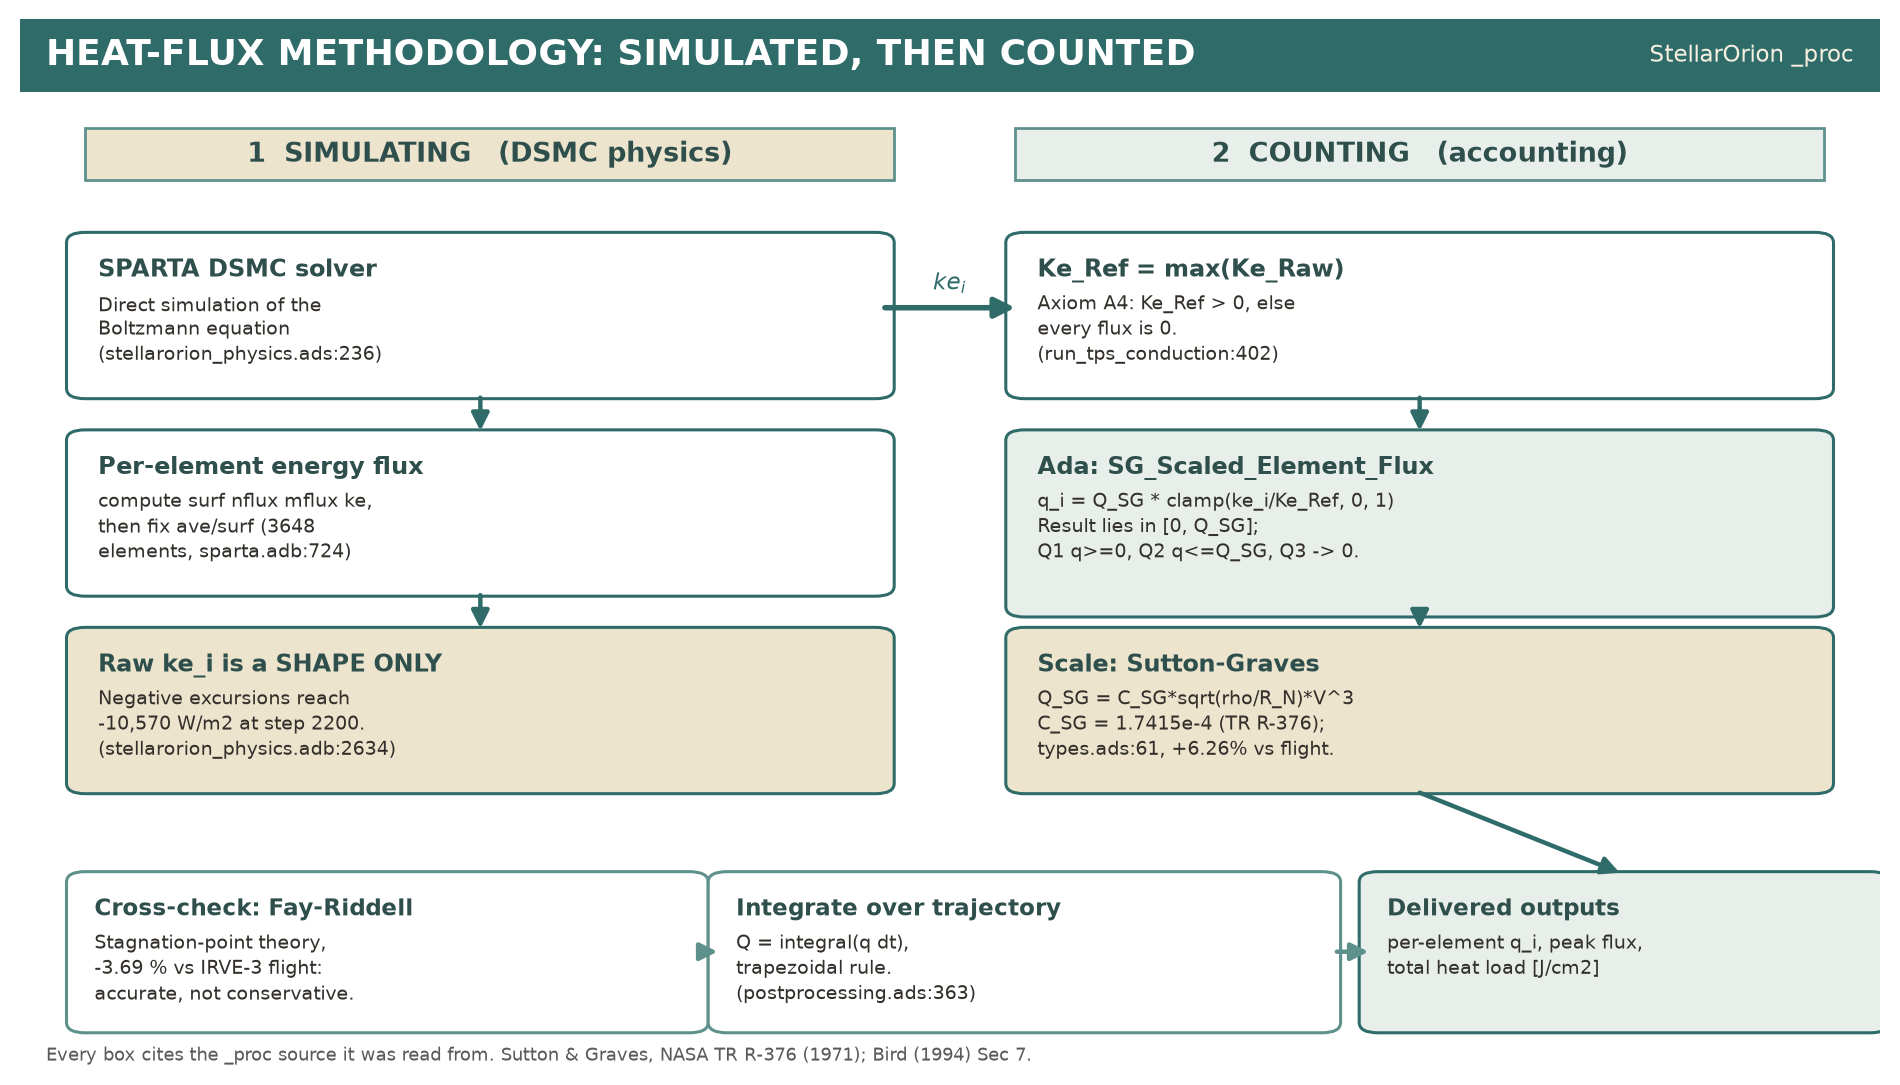
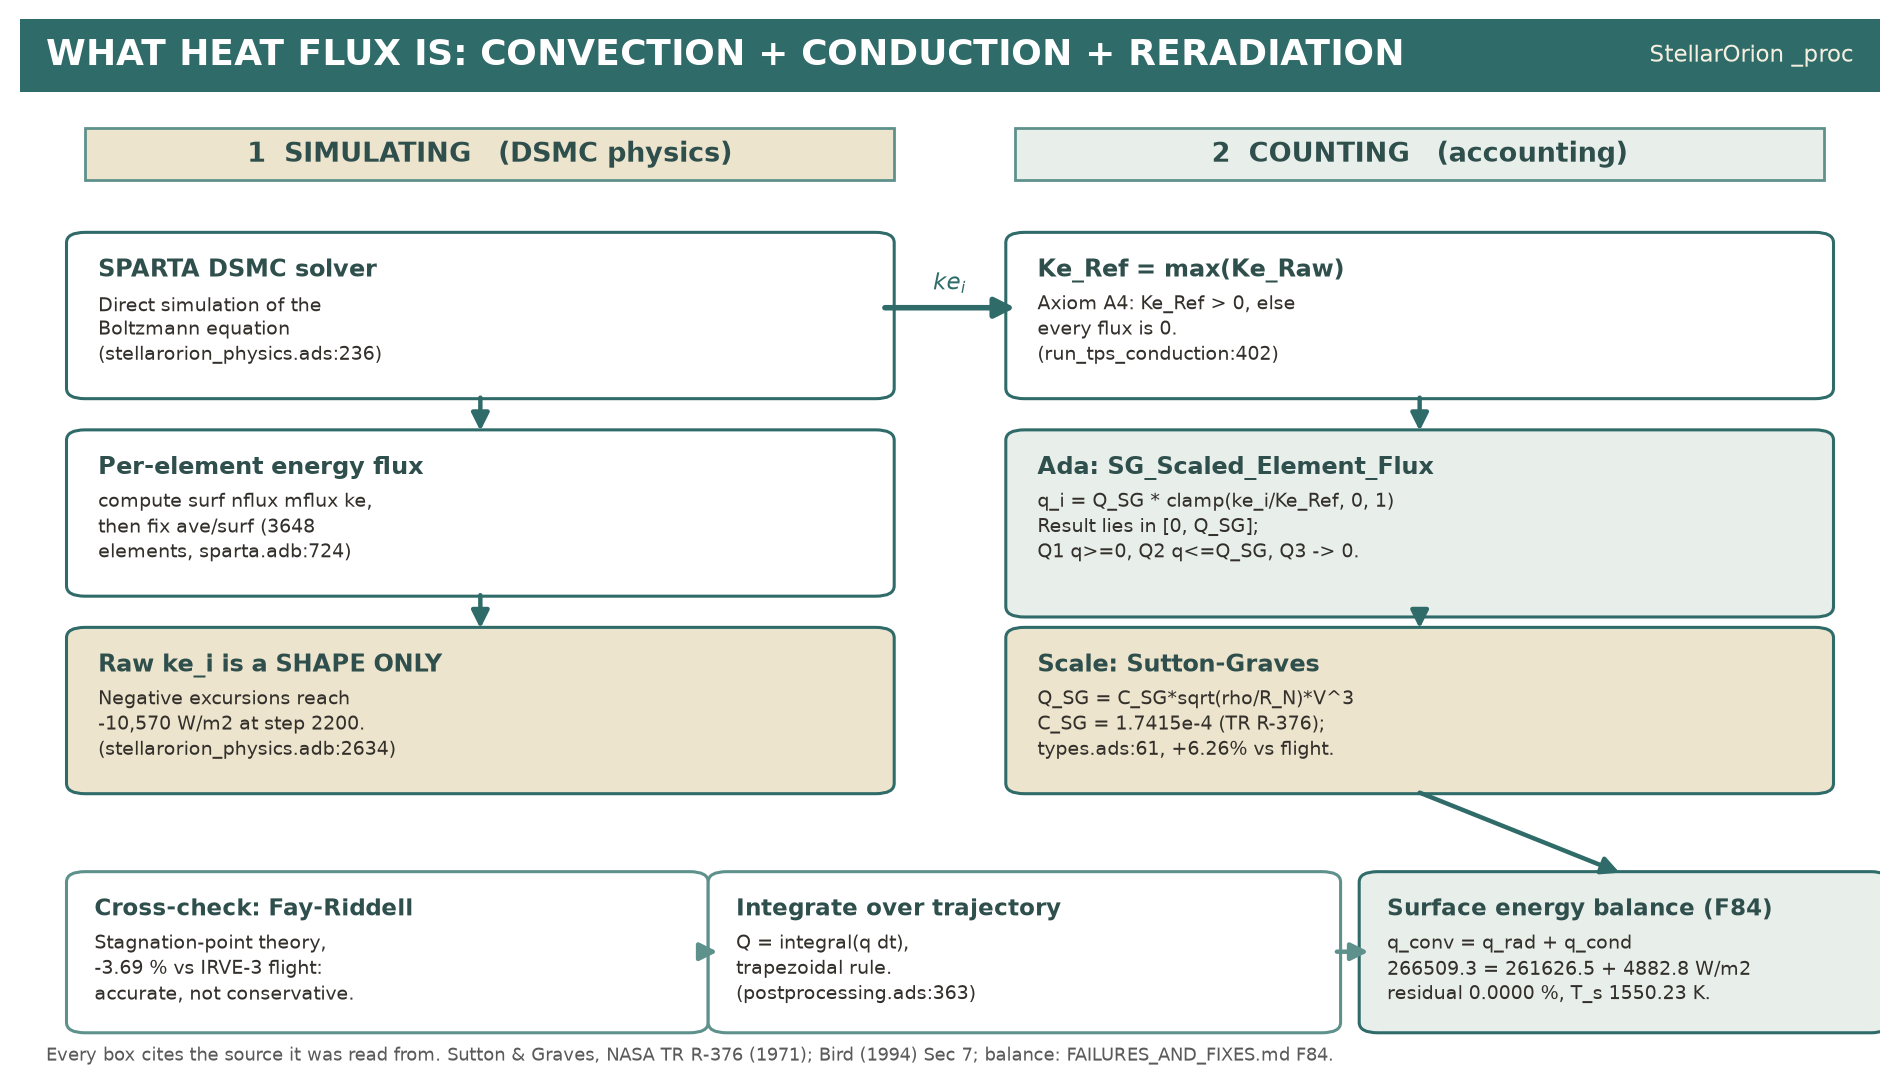
fix(week16): refresh the stale Sutton-Graves figure, name the three heat-flux terms, drop the name prefix
Three separate corrections to the Week 16 deck.

1. Page 11 shipped the number entry F83 exists to correct. The deck's
   so_sutton_graves.png was byte-identical to the pre-F83 artefact
   (029560f0, 248565 b) and annotated 16.14 W/cm^2. The deck figure has
   only ever held two blobs -- dcb45d30 then eaa84a3e, both 2026-10-06 --
   so the F83 regeneration (2026-10-07) was never committed for the deck
   copy even though FAILURES_AND_FIXES.md filed it fixed. Replaced with the
   current thesis figure (3912e775, 232192 b), which annotates 15.36.

   Layout is unchanged, measured rather than assumed: both figures share a
   1486x1288 canvas, and a pixel-diff of old against new page 11 shows the
   row bands outside the plot area are byte-identical, with 1.002 % of
   page pixels differing, all inside the plot box.

2. Page 10 now DEFINES heat flux instead of only describing how it is
   counted. Sutton-Graves returns the convective input; the surface energy
   balance splits it into reradiation and conduction through the 5-ply TPS:

       q_conv = 266509.3 = q_rad 261626.5 + q_cond 4882.8 W/m^2
       residual 0.0000 %, T_s 1550.23 K, R_total 0.25605 m^2.K/W, eps 0.80

   All from the F84 joint solve. The caption carries one decimal, not
   integers, because the rounded integers do NOT add up on screen
   (261627 + 4883 = 266510 against a true 266509); a slide whose own
   arithmetic fails is worse than no slide. The generator's AXIOM A5
[…]

Changed region(s): [[0.1553, 0.9429, 0.6521, 1.0], [0.0311, 0.0304, 0.7453, 0.0608], [0.7142, 0.8212, 0.9316, 0.9429]]

diff --git a/Lost+Found/ProgressReport/Week 16 LaTeX/make_heatflux_methodology.py b/Lost+Found/ProgressReport/Week 16 LaTeX/make_heatflux_methodology.py
@@ -175,7 +175,7 @@ def main():
     # Header band
     ax.add_patch(mpatches.Rectangle((0, 0.930), 1, 0.070, facecolor=BAND,
                                     edgecolor="none", zorder=1))
-    ax.text(0.014, 0.965, "HEAT-FLUX METHODOLOGY: SIMULATED, THEN COUNTED",
+    ax.text(0.014, 0.965, "WHAT HEAT FLUX IS: CONVECTION + CONDUCTION + RERADIATION",
             ha="left", va="center", fontsize=13.0, fontweight="bold",
             color="white", zorder=3)
     ax.text(0.986, 0.965, "StellarOrion _proc", ha="right", va="center",
@@ -224,8 +224,17 @@ def main():
         (0.375, 0.330, "Integrate over trajectory",
          ["Q = integral(q dt),", "trapezoidal rule.", "(postprocessing.ads:363)"],
          "white", ACC),
-        (0.725, 0.275, "Delivered outputs",
-         ["per-element q_i, peak flux,", "total heat load [J/cm2]"],
+        # Repurposed from "Delivered outputs". The terminal box is where the
+        # reader expects to be told what the number IS, so it carries the
+        # F84 surface energy balance -- the three terms this frame names.
+        # Decimal places are deliberate: integers do not add up on screen
+        # (261627 + 4883 = 266510 vs a true 266509), one decimal does.
+        # Body is capped at 3 lines because AXIOM A5's overflow guard refuses
+        # a 4th: measured raise at h=0.145, "bottom box overflow".
+        (0.725, 0.275, "Surface energy balance (F84)",
+         ["q_conv = q_rad + q_cond",
+          "266509.3 = 261626.5 + 4882.8 W/m2",
+          "residual 0.0000 %, T_s 1550.23 K."],
          MIST, BAND),
     ]
     for x, w, title, lines, fc, ec in bottoms:
@@ -269,8 +278,9 @@ def main():
     # which reads as a strike-through across the footer. bbox_inches="tight"
     # expands the canvas for text outside the axes, so a negative y is safe.
     ax.text(0.014, -0.006,
-            "Every box cites the _proc source it was read from. "
-            "Sutton & Graves, NASA TR R-376 (1971); Bird (1994) Sec 7.",
+            "Every box cites the source it was read from. Sutton & Graves, "
+            "NASA TR R-376 (1971); Bird (1994) Sec 7; balance: "
+            "FAILURES_AND_FIXES.md F84.",
             ha="left", va="bottom", fontsize=6.6, color="#5A5A5A", zorder=3)
 
     fig.savefig(OUTPATH, bbox_inches="tight", facecolor="white")

diff --git a/Lost+Found/ProgressReport/Week 16 LaTeX/main.tex b/Lost+Found/ProgressReport/Week 16 LaTeX/main.tex
@@ -206,10 +206,31 @@
 % "wrong definition" claim is only legible once the reader knows what the
 % methodology actually is. Every box carries the _proc file:line it was read
 % from; the figure's own overflow guard (AXIOM A5) raises rather than clipping.
-\PlotFrame{3c. HEAT FLUX METHODOLOGY: SIMULATED, THEN COUNTED}
+%
+% WHAT THIS FRAME NOW CLAIMS. It defines heat flux instead of only describing
+% how it is counted. Sutton-Graves returns the convective input to the
+% surface; the surface energy balance then splits that input three ways:
+%     q_conv = eps*sigma*T_s^4  +  (T_s - T_back)/R_total
+%     (reradiation back out)      (conduction into the 5-ply stack)
+% So the three terms the deck names are CONVECTION (Sutton-Graves),
+% CONDUCTION (through the materials) and RERADIATION (back to the flow).
+%
+% NUMBERS, all from the F84 joint solve with a measured residual of
+% 0.0000 % at the peak element:
+%     q_conv = 266509.28, q_rad = 261626.54, q_cond = 4882.77 W/m^2
+%     T_s = 1550.2345 K, T_back = 300 K, R_total = 0.25605 m^2.K/W, eps = 0.80
+% Source: FAILURES_AND_FIXES.md entry F84; solver ada_pinn_wrapper.py
+% tps_conduction.
+%
+% ROUNDING IS LOAD-BEARING HERE. Rounded to whole numbers the three terms do
+% NOT add up in print (261627 + 4883 = 266510 against a true 266509), and a
+% caption whose own arithmetic fails on screen is worse than no caption. One
+% decimal makes it exact: 261626.5 + 4882.8 = 266509.3. That is why the
+% caption carries .3 / .5 / .8 rather than integers.
+\PlotFrame{3c. HEAT FLUX: CONVECTION, CONDUCTION, RERADIATION}
   {\MaxTextLines{2}%
-   SPARTA supplies the shape, Sutton-Graves the scale:
-   $q_i = Q_{SG}\,\mathrm{clamp}(ke_i/ke_{ref},0,1)$ (stellarorion\_physics.adb:2634).}
+   Convection (Sutton-Graves) = reradiation + conduction through the TPS:
+   266509.3 = 261626.5 + 4882.8 W/m$^2$, residual 0.0000 \% (F84).}
   {heatflux_methodology}
 
 % so_sutton_graves.png <- sutton_graves_parametric.png, drawn by

diff --git a/Lost+Found/ProgressReport/Week 16 LaTeX/preamble.tex b/Lost+Found/ProgressReport/Week 16 LaTeX/preamble.tex
@@ -290,7 +290,7 @@
 % author's name, NIM, supervisors or NIPs.
 % =====================================================================
 \providecommand{\judul}{\uppercase{Investigation of Surface Geometry Effects on the Aerothermodynamics of a HIAD on IRVE-3}}
-\providecommand{\penulis}{Albert Starfield Wahyu Suryo Samudro}
+\providecommand{\penulis}{Wahyu Suryo Samudro}
 \providecommand{\nim}{23624003}
 \providecommand{\pembimbingsatu}{Dr.-Ing. Mochammad Agoes Moelyadi, ST., MSc.}
 \providecommand{\NIPpbbsatu}{196807091999031002}

diff --git a/Lost+Found/ProgressReport/CurrentThesisFinalReport/identity.tex b/Lost+Found/ProgressReport/CurrentThesisFinalReport/identity.tex
@@ -6,7 +6,7 @@
 }
 %PENULIS:
 \providecommand{\penulis}{
-Albert Starfield Wahyu Suryo Samudro
+Wahyu Suryo Samudro
 }
 %NIM:
 \providecommand{\nim}{

diff --git a/Lost+Found/ProgressReport/Week 16 LaTeX/SOURCES.md b/Lost+Found/ProgressReport/Week 16 LaTeX/SOURCES.md
@@ -1,10 +1,11 @@
 # SOURCES.md — figure provenance for the Week 16 progress deck
 
-> **⚠ Read `README.md` first.** It lists which PNGs are live and which are stale. One
-> figure currently on a shipped slide (`figures/so_sutton_graves.png`, page 11) is an
-> out-of-date copy that disagrees with the thesis it came from, and the folder also holds
-> 12 render-scratch PNGs that no slide uses. This file tells you *where a figure came
-> from*; `README.md` tells you *whether you should still be using it*.
+> **⚠ Read `README.md` first.** It lists which PNGs are live, which are scratch, and which
+> have gone stale. `figures/so_sutton_graves.png` (page 11) shipped a stale annotation from
+> 2026-10-06 until 2026-10-14 — see README §"was stale, refreshed 2026-10-14" for the
+> mechanism and the check. The folder also holds 12 render-scratch PNGs that no slide uses.
+> This file tells you *where a figure came from*; `README.md` tells you *whether you should
+> still be using it*.
 
 Every figure on a slide is a **copy** of a file that the `_proc` pipeline or the thesis
 figure scripts already generated. Nothing on these slides was drawn for the presentation.
@@ -29,7 +30,7 @@ Line numbers refer to `main.tex` in the deck directory.
 | 7 | 2. KRIGING DENOISING | `kriging_denoise.png` | `stellarorion_program_proc/src/ui/uiassets/assets/plots/kriging_denoise_step500.png` | `stellarorion_program_proc/scripts/render_kriging_panel.py` |
 | 8 | 3. VALIDATION RUN | `so_pipeline.png` | `.../CurrentThesisFinalReport/figures/fignew_pipeline.png` (see provenance note) | `.../CurrentThesisFinalReport/figures/make_fignew.py` and `make_pipeline_figure.py` |
 | 9 | 3b. THE PINN INSIDE THE PIPELINE | `so_pinn_architecture.png` | `.../CurrentThesisFinalReport/figures/pinn_architecture.png` | `.../CurrentThesisFinalReport/figures/make_pinn_architecture.py` |
-| 10 | 3c. HEAT FLUX METHODOLOGY: SIMULATED, THEN COUNTED | `heatflux_methodology.png` | (drawn for this deck, not copied) | `Week 16 LaTeX/make_heatflux_methodology.py` |
+| 10 | 3c. HEAT FLUX: CONVECTION, CONDUCTION, RERADIATION | `heatflux_methodology.png` | (drawn for this deck, not copied) | `Week 16 LaTeX/make_heatflux_methodology.py` |
 | 11 | 4. REDEFINING YESTERDAY'S WRONG HEAT FLUX DEFINITION | `so_sutton_graves.png` | `.../CurrentThesisFinalReport/figures/sutton_graves_parametric.png` | `.../CurrentThesisFinalReport/figures/generate_sutton_graves_parametric.py` |
 | 12 | 4b. SCALLOPED VERSUS SMOOTH GEOMETRY | `so_scalloped_vs_smooth.png` | `.../CurrentThesisFinalReport/figures/fignew_scalloped_vs_smooth_heatflux.png` | `.../CurrentThesisFinalReport/figures/make_fignew.py` |
 | 13 | 5. OPTIMIZATION RESULT: TOPOLOGY BEFORE/AFTER | `so_topology_before_after.png` | `stellarorion_program_proc/optimization_comparison.png` | `stellarorion_program_proc/scripts/render_optimization_comparison.py` L1007-1008 |
@@ -62,6 +63,13 @@ it was read from:
 * Fay-Riddell cross-check, −3.69 % vs flight (accurate, not conservative) —
   `stellarorion_physics.ads:289-335`.
 * Trapezoidal heat-load integration — `stellarorion_postprocessing.ads:363-405`.
+* **Surface energy balance** `q_conv = εσT_s⁴ + (T_s − T_back)/R_total`, the term this
+  frame is named after. Resolved at the peak element to
+  `266509.3 = 261626.5 + 4882.8 W/m²`, residual `0.0000 %`, `T_s = 1550.2345 K`,
+  `T_back = 300 K`, `R_total = 0.25605 m²K/W`, `ε = 0.80` — `FAILURES_AND_FIXES.md`
+  entry **F84**, solver `stellarorion_program_proc/src/python/ada_pinn_wrapper.py`
+  (`tps_conduction`). The box carries one decimal, not integers, because the rounded
+  integers do not add up on screen (`261627 + 4883 = 266510` against a true `266509`).
 
 Rejection record: `methodology_derivation.png` and `software_pipeline.png` were both
 considered and **rejected** — they carry rasterised text-overlap defects and depict
@@ -115,23 +123,39 @@ installed figure carries neither; its subtitle is
 `incumbent falls from 1.7654 to 1.6051, a 9.08% reduction`, which are the literal strings
 in `make_bo_convergence.py` L99-100. **Generator: `make_bo_convergence.py`.**
 
-## `so_sutton_graves.png` — regenerated 2026-10-07 (FAILURES_AND_FIXES.md F83)
+## `so_sutton_graves.png` — F83 landed in the thesis but never in the deck (until 2026-10-14)
 
 The figure's annotation is computed live from the solver, not hard-coded
 (`generate_sutton_graves_parametric.py` L454 computes it and L619 formats it), but the
 shipped PNG was a stale render made with the superseded Mars constant `C_SG = 1.83e-4`.
 With the corrected Earth-air constant `C_SG = 1.7415e-4` (NASA TR R-376 Table 1;
 `stellarorion_types.ads:61`) the value at 51.8 km / 3378 m/s, `R_N` = 1.5 m is
-**15.3575 W/cm2**, not the 16.14 the old PNG printed (5.1 % overstatement). The thesis
-copy and the deck copy were byte-identical, so the later mtime was not a re-render.
+**15.3575 W/cm2**, not the 16.14 the old PNG printed (5.1 % overstatement). Full write-up:
+F83 in `FAILURES_AND_FIXES.md`.
 
-| | md5 | bytes | reads |
-| :-- | :-- | --: | :-- |
-| before | `029560f01d545f87f4002e1f6800988d` | 248565 | 16.14 W/cm2 |
-| after (regenerated 2026-10-07) | `820b09f5bd0e0c07df38e02d006f23e9` | 249536 | 15.36 W/cm2 |
+`FAILURES_AND_FIXES.md` records F83 as **fixed 2026-10-07**. That is true of the *thesis*
+copy and false of the *deck* copy. Git proves it — the deck file has only ever had two
+blobs, both dated 2026-10-06:
 
-Both the thesis source and the deck copy were updated from one re-run. Full write-up: F83 in
-`FAILURES_AND_FIXES.md`.
+| where | commit | date | md5 | bytes | reads |
+| :-- | :-- | :-- | :-- | --: | :-- |
+| thesis, pre-F83 | `a8404fb4` | 2026-10-06 | `029560f01d545f87f4002e1f6800988d` | 248565 | 16.14 W/cm2 |
+| thesis, F83 re-run | `0b9dc377` | 2026-10-07 | `820b09f5bd0e0c07df38e02d006f23e9` | 249536 | 15.36 W/cm2 |
+| thesis, audit fix | `c75f8fe3` | 2026-10-09 | `60bdef1bfa1680c1d9496825f8e92a38` | 247861 | 15.36 W/cm2 |
+| thesis, back to F83 bytes | `a477e4ab` | 2026-10-11 | `820b09f5bd0e0c07df38e02d006f23e9` | 249536 | 15.36 W/cm2 |
+| thesis, current | `2ae5afe2` | 2026-10-13 | `3912e7759176e40868fdc0c0caede41f` | 232192 | 15.36 W/cm2 |
+| **deck, before** | `a8404fb4` | 2026-10-06 | `029560f01d545f87f4002e1f6800988d` | 248565 | ~~16.14 W/cm2~~ |
+| **deck, now** | *uncommitted → see README* | 2026-10-14 | `3912e7759176e40868fdc0c0caede41f` | 232192 | 15.36 W/cm2 |
+
+An earlier revision of this file asserted "both the thesis source and the deck copy were
+updated from one re-run". **That was wrong and is withdrawn.** The deck copy's entire git
+history is `efa64f3c` (255120 B) → `a8404fb4` (248565 B), both 2026-10-06; `820b09f5` was
+never a deck blob. It went unnoticed because the deck and thesis copies *were*
+byte-identical, so the later mtime on the thesis side looked like a paired re-render when
+only one side had moved.
+
+`README.md` §"was stale, refreshed 2026-10-14" records the detection, the fix, and the
+pixel-level proof that swapping it did not disturb the frame layout.
 
 ## The kriging figure — REFUTATION of an earlier claim
 

diff --git a/Lost+Found/ProgressReport/Week 16 LaTeX/README.md b/Lost+Found/ProgressReport/Week 16 LaTeX/README.md
@@ -1,8 +1,9 @@
 # Week 16 progress deck — what is live, what is stale
 
 Read this before copying any PNG out of this folder. Several files here look like deck
-assets and are not; one file that *is* a deck asset is stale and currently disagrees with
-the thesis it was copied from.
+assets and are not. One file that *is* a deck asset **was** stale — it shipped a corrected
+value wrong for a week — and §"was stale, refreshed 2026-10-14" below records what happened
+and how to check it has not happened again.
 
 ---
 
@@ -53,34 +54,26 @@ lift one of these.
 
 ---
 
-## ⚠ `figures/so_sutton_graves.png` is stale and on a shipped slide
+## `figures/so_sutton_graves.png` (page 11) — was stale, refreshed 2026-10-14
 
-This is the one that matters, because unlike the scratch files it is **referenced by the
-deck** — it is the figure on page 11, *"4. REDEFINING YESTERDAY'S WRONG HEAT FLUX DEFINITION"*.
+This was the one that mattered: unlike the scratch files it **is referenced by the deck** —
+it is the figure on page 11, *"4. REDEFINING YESTERDAY'S WRONG HEAT FLUX DEFINITION"*.
 
-Measured, 2026-10-14:
+**What was wrong.** The deck copy was byte-identical to the pre-F83 artefact
+(`029560f01d545f87f4002e1f6800988d`, 248565 B), annotating **16.14 W/cm²**.
+`FAILURES_AND_FIXES.md` entry **F83** established that value came from the superseded Mars
+correlation constant `C_SG = 1.83e-4`; the corrected Earth-air value `C_SG = 1.7415e-4`
+(NASA TR R-376 Table 1, now at `stellarorion_types.ads:61`) gives **15.3575 W/cm²**, a
+**5.1 % overstatement**. F83 was filed as fixed on 2026-10-07 by regenerating the figure.
 
-| File | md5 | Bytes | Annotation reads |
-| :-- | :-- | --: | :-- |
-| `figures/so_sutton_graves.png` (deck, **stale**) | `029560f01d545f87f4002e1f6800988d` | 248565 | **16.14 W/cm²** |
-| `../CurrentThesisFinalReport/figures/sutton_graves_parametric.png` (newest) | `3912e7759176e40868fdc0c0caede41f` | 232192 | **15.36 W/cm²** |
+**Why it came back.** Git history for the deck copy stopped at `a8404fb4` (2026-10-06), one
+day before F83. The 2026-10-07 regeneration was never committed for this file, so the
+working tree reverted to the older blob and page 11 shipped the exact number F83 exists to
+correct. Note the slide *caption* was never affected: "reported peak overstated by 31.90 %
+(F21)" describes the normalisation-constant condition mismatch at `R_N = 0.55 m`, a
+different quantity. The stale part was the annotation **inside the artwork**.
 
-The deck copy is byte-identical to the **pre-F83** artefact. `FAILURES_AND_FIXES.md` entry
-**F83** established that 16.14 W/cm² was computed with the superseded Mars correlation
-constant `C_SG = 1.83e-4`; the corrected Earth-air value `C_SG = 1.7415e-4` (NASA TR R-376
-Table 1, now at `stellarorion_types.ads:61`) gives **15.3575 W/cm²**, a **5.1 %
-overstatement**. F83 was filed as fixed on 2026-10-07 by regenerating the figure.
-
-**The fix did not survive into the deck.** Git history for the deck copy stops at
-`a8404fb4` (2026-10-06), which predates F83. The 2026-10-07 regeneration was never
-committed for this file, and the working tree reverted to the older blob.
-
-Net effect: page 11 currently ships the number that entry F83 exists to correct. The slide
-caption — "reported peak overstated by 31.90 % (F21)" — is about a *different* quantity
-(the normalisation-constant condition mismatch at `R_N = 0.55 m`) and is unaffected; the
-**annotation inside the artwork** is the stale part.
-
-**Remedy:** copy the newer thesis figure over the deck copy and rebuild.
+**Fix applied 2026-10-14.** Copied the thesis source over the deck copy and rebuilt:
 
 ```
 cd "Lost+Found/ProgressReport/Week 16 LaTeX"
@@ -88,9 +81,30 @@ cp ../CurrentThesisFinalReport/figures/sutton_graves_parametric.png figures/so_s
 for i in 1 2 3; do pdflatex -interaction=nonstopmode -file-line-error main.tex; done
 ```
 
-Then check page 11 reads 15.36 W/cm². Note the newer figure is a restyle as well as a
-number fix (viridis ramp, larger canvas), so the page will *look* different, not just
-*differ* by one number.
+| File | md5 | Bytes | Annotation |
+| :-- | :-- | --: | :-- |
+| `figures/so_sutton_graves.png` (deck, **now**) | `3912e7759176e40868fdc0c0caede41f` | 232192 | **15.36 W/cm²** |
+| `../CurrentThesisFinalReport/figures/sutton_graves_parametric.png` | `3912e7759176e40868fdc0c0caede41f` | 232192 | **15.36 W/cm²** |
+| *(previous deck copy)* | `029560f01d545f87f4002e1f6800988d` | 248565 | ~~16.14 W/cm²~~ |
+
+**Verified, not assumed.** 3 pdflatex passes, `main.log` scored against all 11 patterns
+(bare `!`, `^\./main\.tex:[0-9]+:`, `Missing $ inserted`, `Extra \}`, `Undefined control
+sequence`, `Overfull`, `Underfull`, `LaTeX Warning`, `Package Warning`, `Rerun to get`,
+`Fatal`) — all 0, verdict **CLEAN**; 14 pages; 0 `MISSING PLOT`. Page 11 rendered to PNG
+and read back by eye: annotation reads 15.36, counter `11 / 14`, caption 2 lines, no
+clipping or overlap.
+
+**No layout change, measured rather than assumed.** Both figures are the *same canvas*,
+1486×1288, identical aspect 1.1537 — so the earlier guess that this was a "restyle with a
+larger canvas" was wrong. Pixel-diffing old vs. new page 11 at scale 3.0: identical
+dimensions (1361×766), and rows bands outside the plot area are byte-for-byte equal in ink
+count (title, rule, legend, caption, page counter all unchanged). Only **1.002 %** of page
+pixels differ, all inside the plot box — as expected, since rescaling `C_SG` shifts the
+curves, not the frame.
+
+**If it regresses again:** that same `cp` + 3 passes is the remedy. Worth re-checking after
+any autosave touching `figures/`, since the loss mechanism was an uncommitted regeneration,
+not a deliberate revert.
 
 ---
 
@@ -145,7 +159,8 @@ landed.
 
 14 pages: title · OUTLINE · **CONTEXT** · **PREVIOUS PROBLEM** · then twelve frames under
 **CURRENT IMPLEMENTATION** — `1. BAYESIAN OPTIMIZATION`, `1b. CCD SCREEN`, `2. KRIGING
-DENOISING`, `3. VALIDATION RUN`, `3b. PINN`, `3c. HEAT FLUX METHODOLOGY`, `4. REDEFINING…`,
+DENOISING`, `3. VALIDATION RUN`, `3b. PINN`, `3c. HEAT FLUX: CONVECTION, CONDUCTION, RERADIATION`,
+`4. REDEFINING…`,
 `4b. SCALLOPED VS SMOOTH`, `5. TOPOLOGY BEFORE/AFTER`, `6. BAYESIAN PLOT`.
 
 Constraints enforced by the preamble, not by convention: `\MaxTextLines{2}` raises
